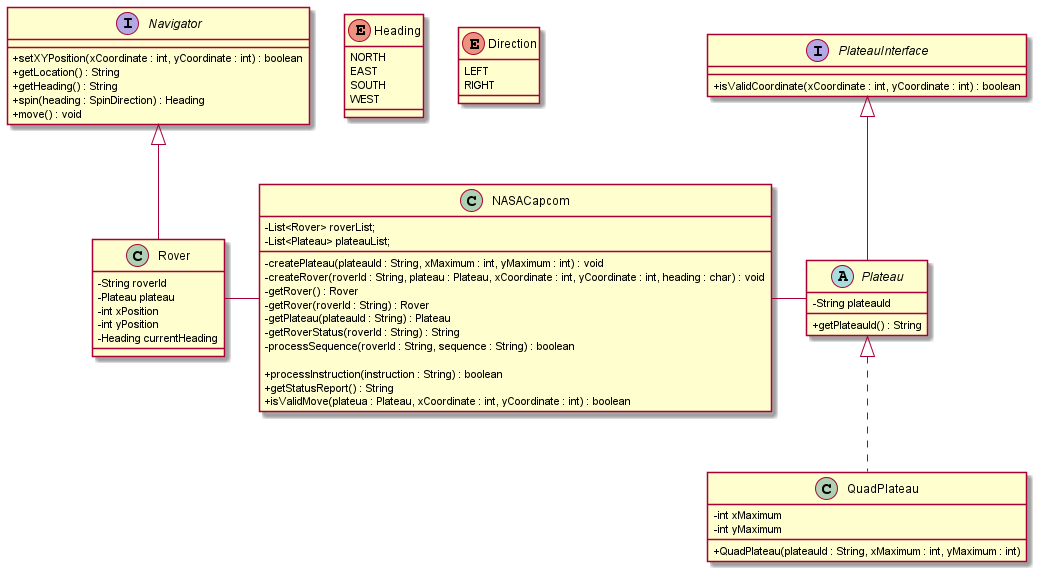
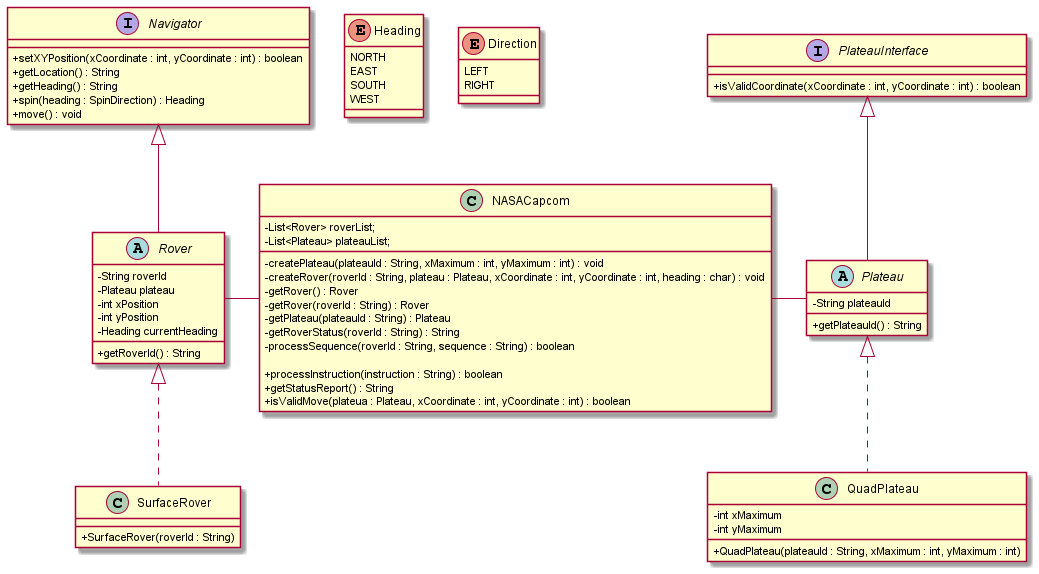
Updated UML. Rover class now abstract.  Initial skeleton and first test for SurfaceRover.

Changed region(s): [[0.0924, 0.385, 0.2464, 0.6516], [0.0616, 0.8293, 0.2464, 0.9774]]

diff --git a/src/test/java/com/probert999/marsrover/RoverTest.java b/src/test/java/com/probert999/marsrover/RoverTest.java
@@ -1,0 +1,18 @@
+package com.probert999.marsrover;
+
+import com.probert999.marsrover.app.model.SurfaceRover;
+import org.junit.jupiter.api.Test;
+
+import static org.junit.jupiter.api.Assertions.assertEquals;
+
+public class RoverTest {
+
+    @Test
+    public void shouldReturnCorrectRoverId()
+    {
+        String testRoverId = "Rover1";
+        SurfaceRover testRover = new SurfaceRover(testRoverId);
+        assertEquals(testRoverId, testRover.getRoverId());
+    }
+
+}

diff --git a/src/main/java/com/probert999/marsrover/app/model/Rover.java b/src/main/java/com/probert999/marsrover/app/model/Rover.java
@@ -1,0 +1,10 @@
+package com.probert999.marsrover.app.model;
+
+public abstract class Rover implements Navigator {
+
+  protected String roverId;
+
+  public String getRoverId() {
+    return roverId;
+  }
+}

diff --git a/src/main/java/com/probert999/marsrover/app/model/SurfaceRover.java b/src/main/java/com/probert999/marsrover/app/model/SurfaceRover.java
@@ -1,0 +1,10 @@
+package com.probert999.marsrover.app.model;
+
+public class SurfaceRover extends Rover {
+
+    public SurfaceRover(String roverId)
+    {
+        this.roverId = roverId;
+    }
+
+}

diff --git a/src/main/java/com/probert999/marsrover/app/model/Plateau.java b/src/main/java/com/probert999/marsrover/app/model/Plateau.java
@@ -4,7 +4,6 @@ abstract public class Plateau implements PlateauInterface {
 
     protected String plateauId;
 
-
     public String getPlateauId()
     {
         return this.plateauId;

diff --git a/src/test/java/com/probert999/marsrover/PlateauTest.java b/src/test/java/com/probert999/marsrover/PlateauTest.java
@@ -44,5 +44,5 @@ public class PlateauTest {
         assertThrows(
                 IllegalArgumentException.class, () -> new QuadPlateau("QuadTestId", 5, -5));
     }
-    
+
 }

diff --git a/src/main/java/com/probert999/marsrover/app/model/Navigator.java b/src/main/java/com/probert999/marsrover/app/model/Navigator.java
@@ -1,0 +1,6 @@
+package com.probert999.marsrover.app.model;
+
+public interface Navigator {
+
+
+}
